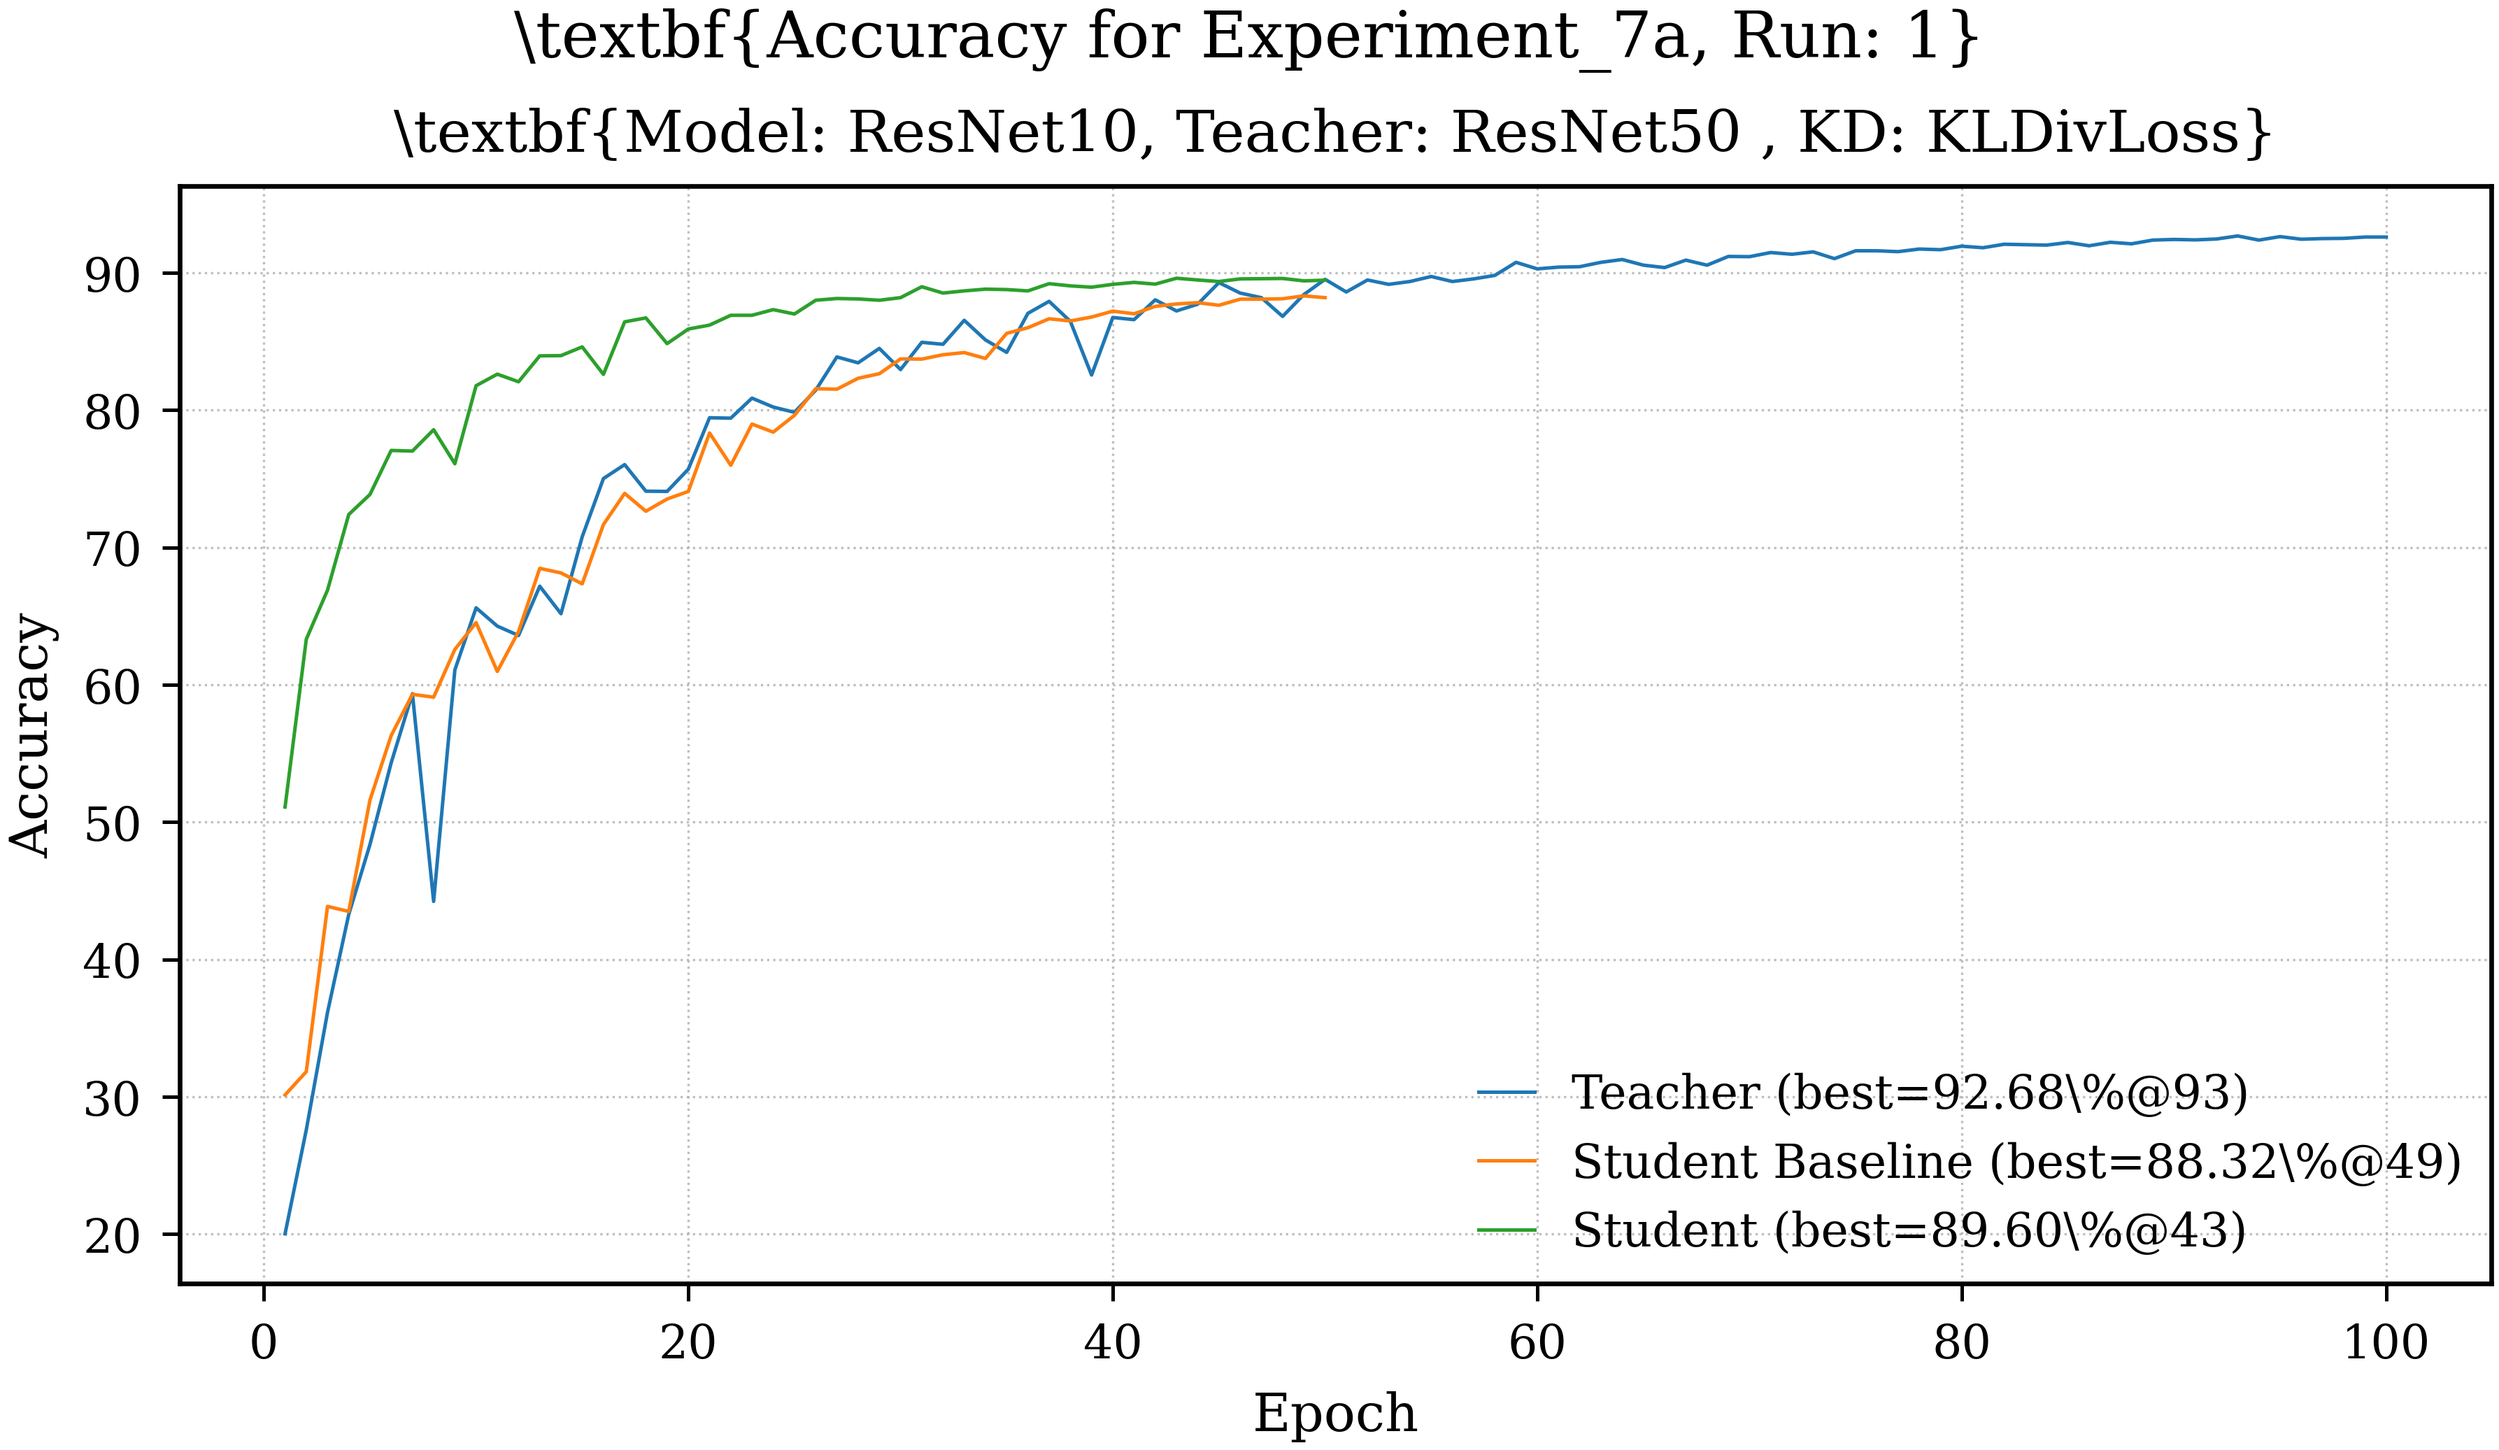
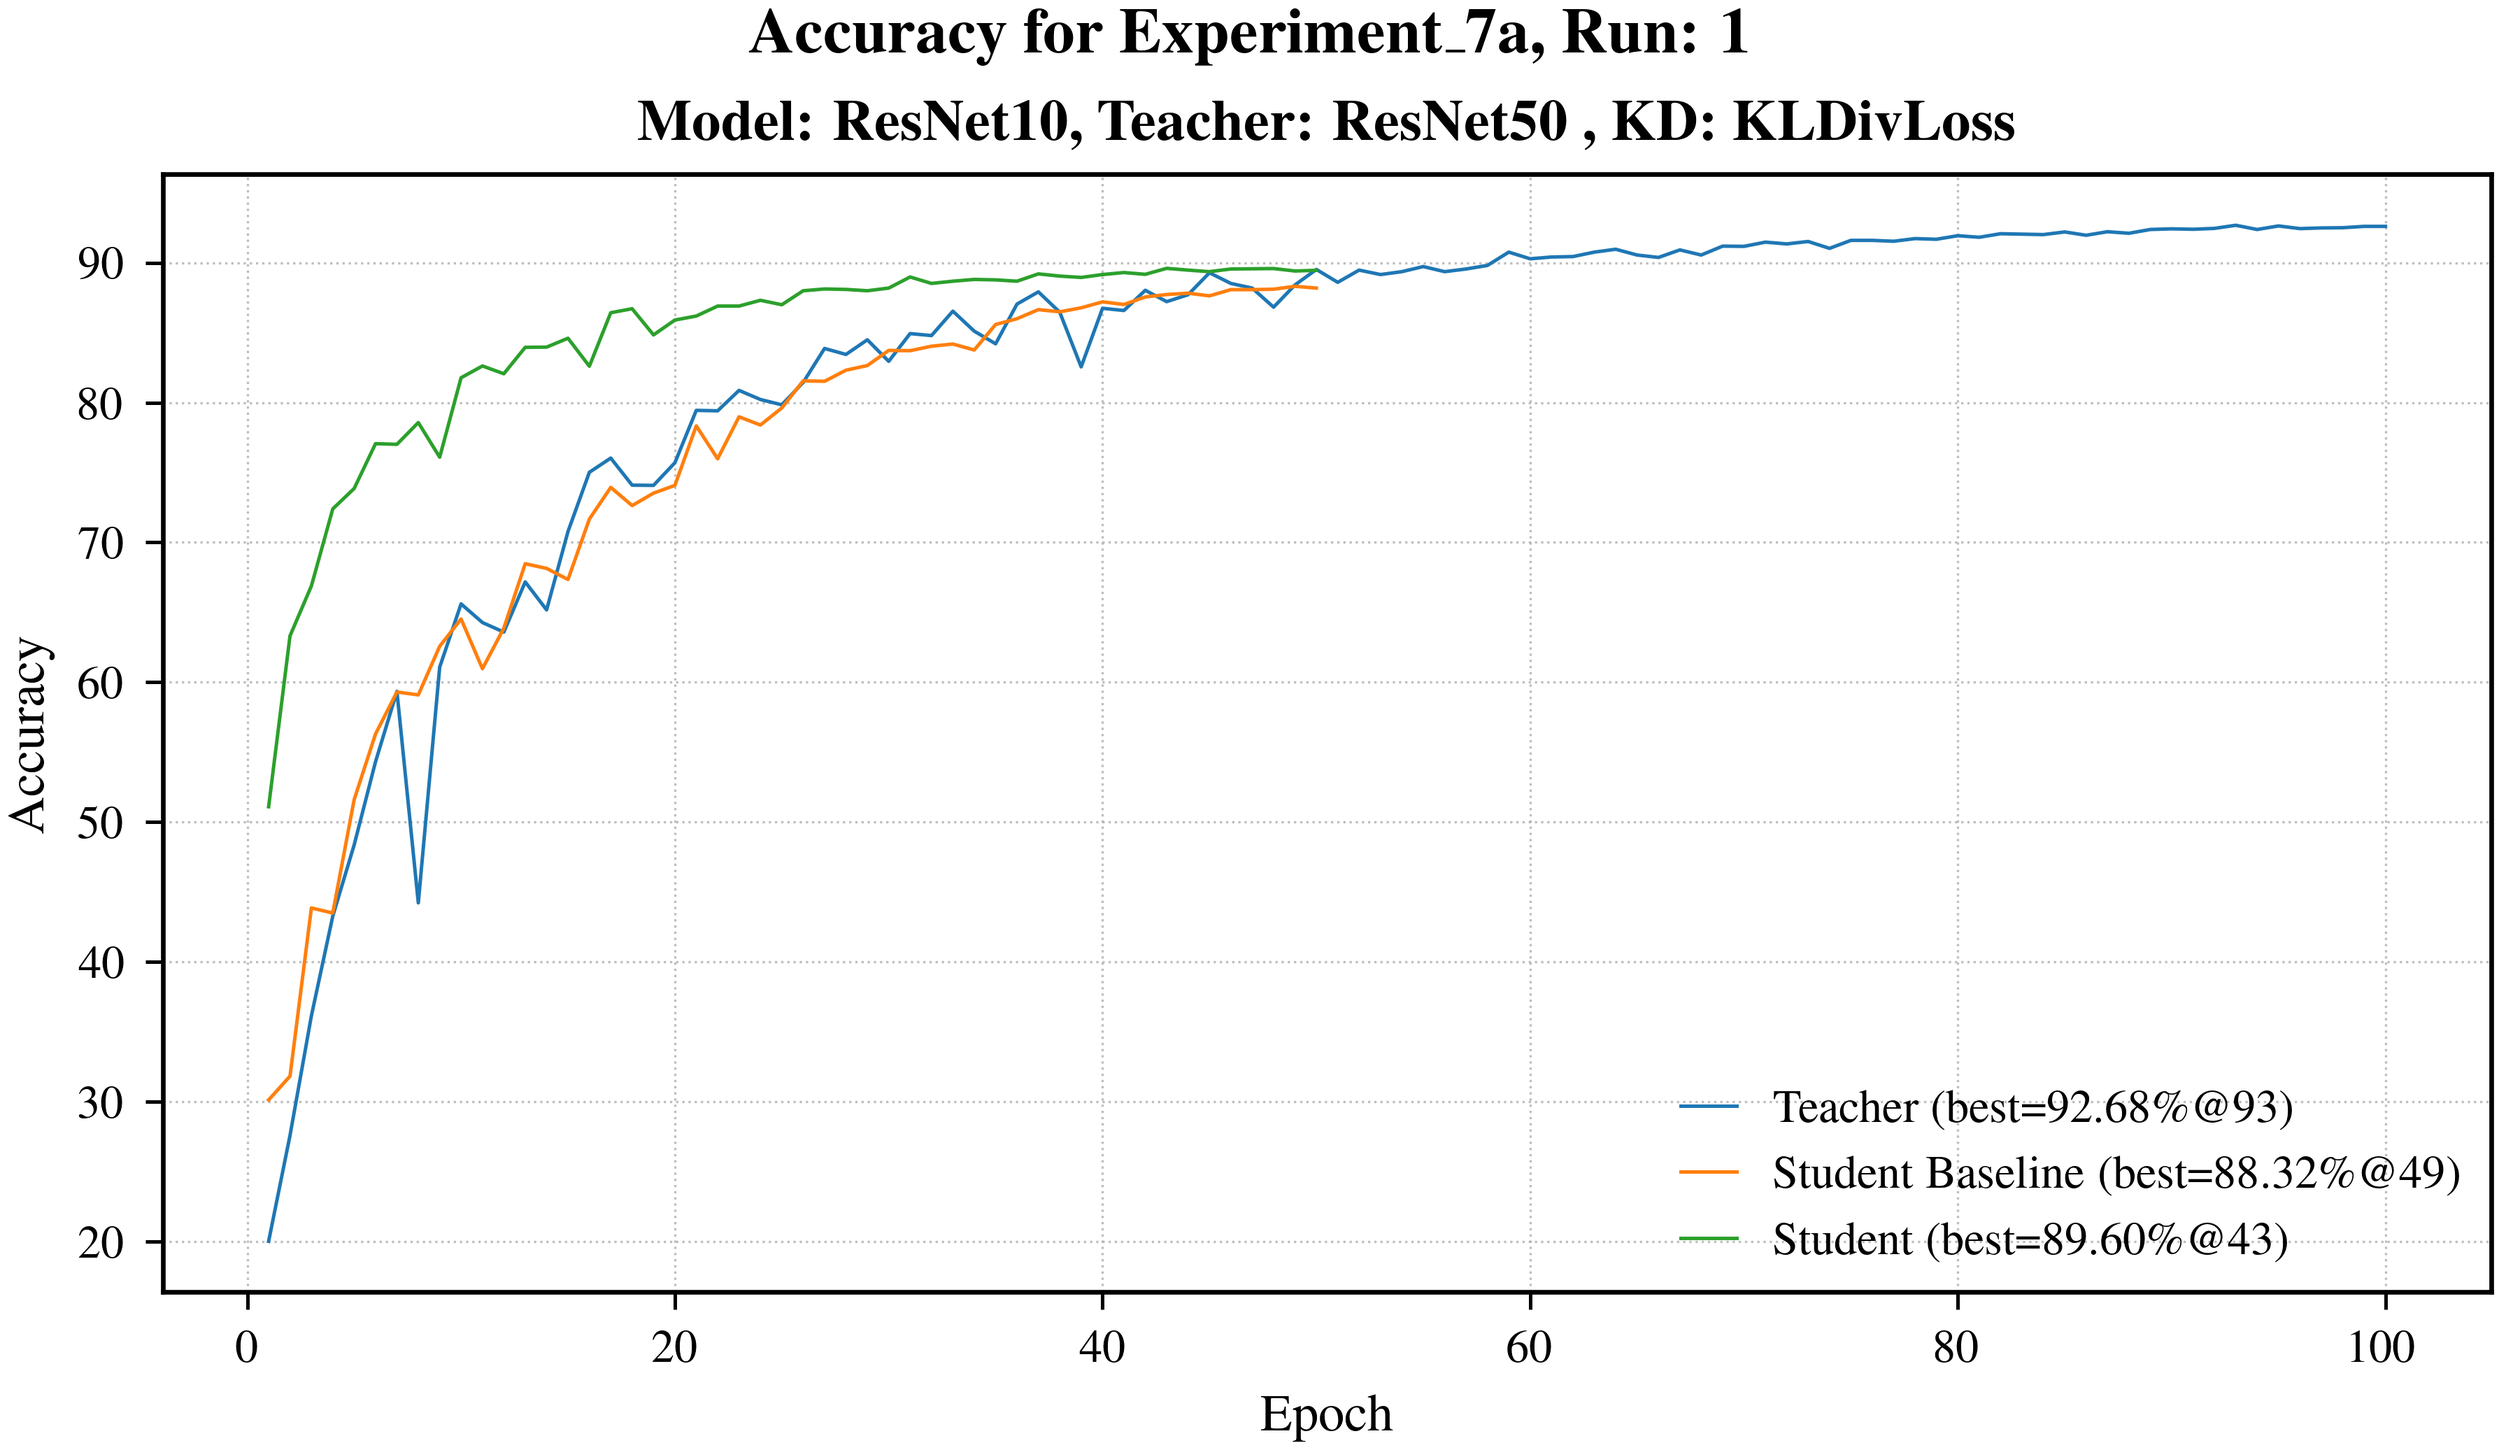
make plots for 7a run 1

diff --git a/experiments/Experiment_7a/experiment_summary.md b/experiments/Experiment_7a/experiment_summary.md
@@ -1,6 +1,6 @@
 | Run | Accuracy Before Pruning (%) | Sparsity (Pruned, Before Fine-Tune) (%) | Accuracy After Pruning (Before Fine-Tune) (%) | Sparsity After Pruning (Post Fine-Tune) (%) | Accuracy Pruned + Fine-Tuned (%) | Teacher Total Params | Teacher Trainable Params | Teacher Estimated Total Size (MB) | Student P+FT Total Params | Student P+FT Trainable Params | Student P+FT Estimated Total Size (MB) | Student Before Total Params | Student Before Trainable Params | Student Before Estimated Total Size (MB) | Reduction Student to pruned Student (%) | Reduction Teacher to pruned Student (%) |
 | --- | --- | --- | --- | --- | --- | --- | --- | --- | --- | --- | --- | --- | --- | --- | --- | --- |
-| 1 | nan% | nan% | nan% | nan% | nan% | 24,648,813 | 24,648,813 | 59759.5200 | nan | nan |  | nan | nan |  | nan% | nan% |
+| 1 | 90.98% | 42.98% | 2.29% | 25.64% | 89.60% | 24,648,813 | 24,648,813 | 59759.5200 | 3,219,996 | 3,219,996 | 28334.2500 | 4,921,197 | 4,921,197 | 37265.2000 | 34.57% | 86.94% |
 | 2 | 90.98% | 6.54% | 2.67% | 2.26% | 91.54% | 24,648,813 | 24,648,813 | 59759.5200 | 3,219,996 | 3,219,996 | 28334.2500 | 4,921,197 | 4,921,197 | 37265.2000 | 34.57% | 86.94% |
 | 3 | 90.98% | 25.27% | 2.73% | 12.05% | 90.78% | 24,648,813 | 24,648,813 | 59759.5200 | 3,219,996 | 3,219,996 | 28334.2500 | 4,921,197 | 4,921,197 | 37265.2000 | 34.57% | 86.94% |
 | 4 | 90.98% | 59.54% | 2.29% | 42.26% | 85.40% | 24,648,813 | 24,648,813 | 59759.5200 | 3,219,996 | 3,219,996 | 28334.2500 | 4,921,197 | 4,921,197 | 37265.2000 | 34.57% | 86.94% |
